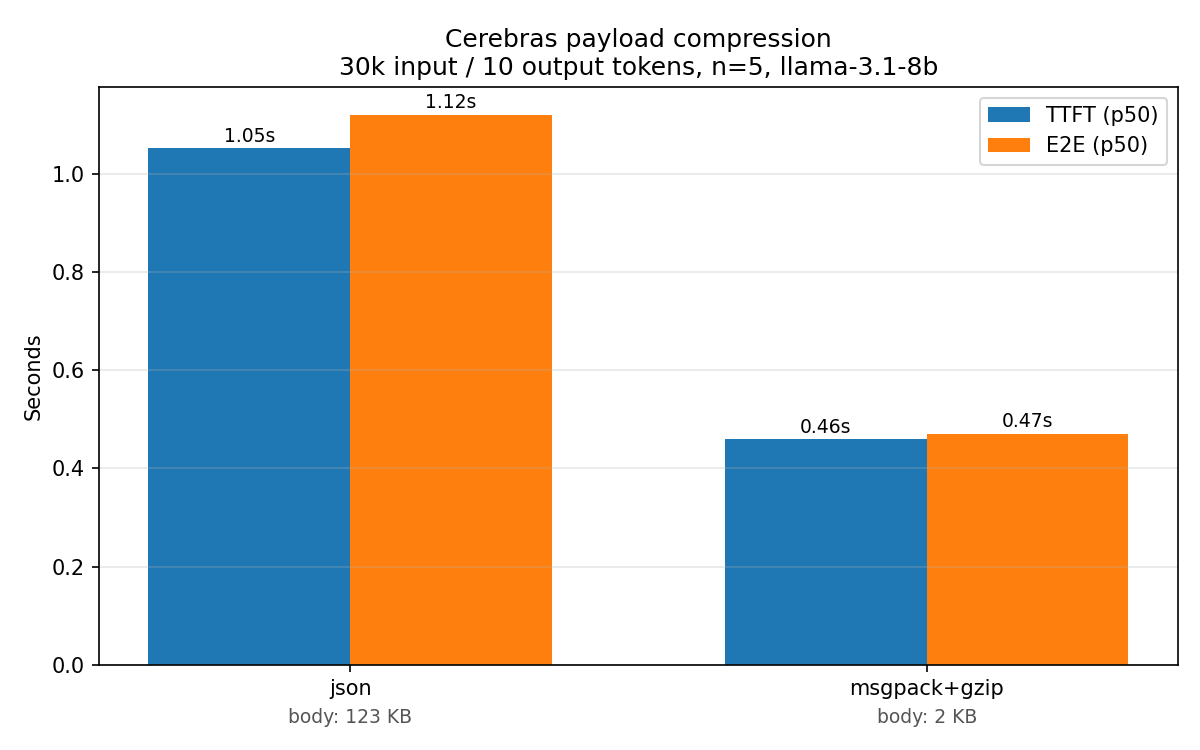
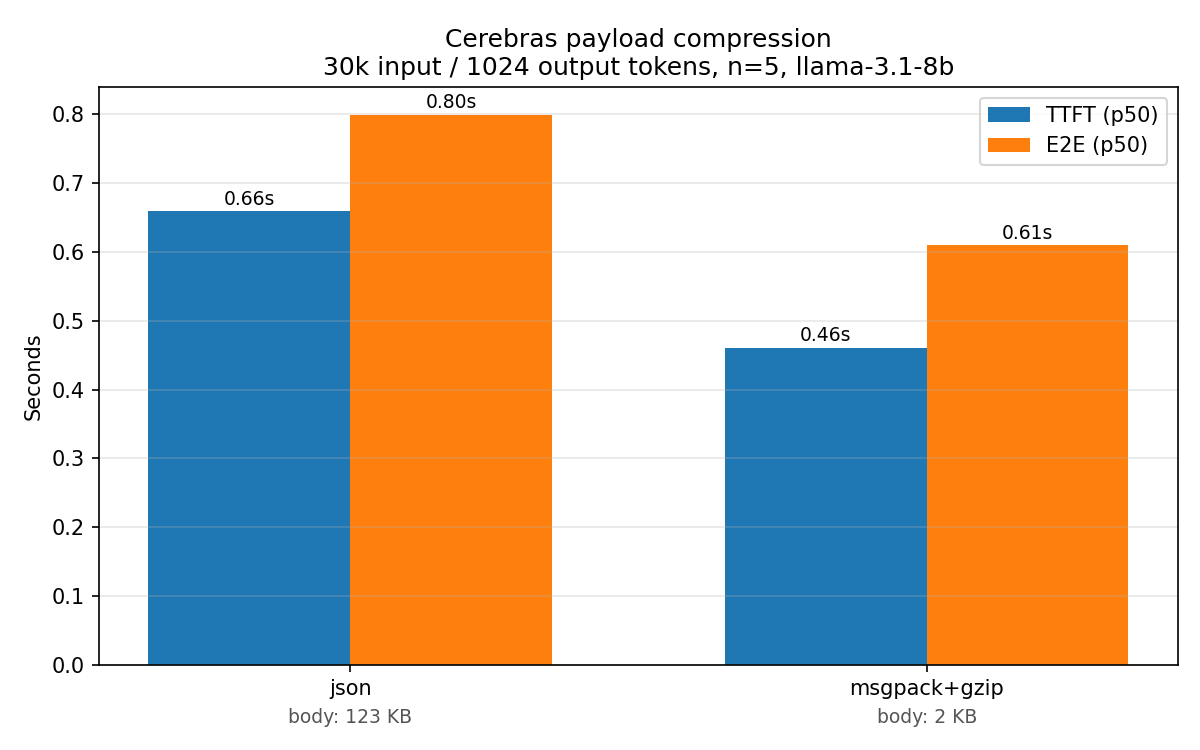
Use gpt-oss-120b in simple example, bump max_tokens to 1024 everywhere
Aligns the minimal example with the README's stated goal (flagship model
for the simple demo) and changes the benchmark to generate a realistic
1024-token response so the E2E metric reflects a full answer rather than
just the first few tokens. Refreshed results.png and table from a new
llama-3.1-8b run at 30k input / 1024 output.

diff --git a/payload-compression/simple_example.py b/payload-compression/simple_example.py
@@ -12,7 +12,7 @@ import httpx
 import msgpack
 
 API_URL = "https://api.cerebras.ai/v1/chat/completions"
-MODEL = "llama-3.1-8b"
+MODEL = "gpt-oss-120b"
 
 api_key = os.environ.get("CEREBRAS_API_KEY")
 if not api_key:
@@ -21,7 +21,7 @@ if not api_key:
 payload = {
     "model": MODEL,
     "messages": [{"role": "user", "content": "Explain payload compression in one sentence."}],
-    "max_tokens": 128,
+    "max_tokens": 1024,
 }
 
 plain_json = json.dumps(payload).encode()

diff --git a/payload-compression/benchmark.py b/payload-compression/benchmark.py
@@ -26,7 +26,7 @@ import msgpack
 API_URL = "https://api.cerebras.ai/v1/chat/completions"
 MODEL = "llama-3.1-8b"
 NUM_RUNS = 5
-OUTPUT_TOKENS = 10
+OUTPUT_TOKENS = 1024
 TARGET_INPUT_TOKENS = 30_000
 CHARS_PER_TOKEN = 4.0  # empirical for this code-block content; tune if your prompt type differs
 MAX_DECOMPRESSED_BYTES = 40 * 1024 * 1024  # 40MB guardrail; server cap is 51MB

diff --git a/payload-compression/README.md b/payload-compression/README.md
@@ -4,9 +4,9 @@ Cerebras Inference accepts compressed request bodies on `/v1/chat/completions` a
 
 This example focuses on the strongest combination — **msgpack (inner) + gzip (outer)** — and shows:
 
-1. **[`simple_example.py`](./simple_example.py)** — the minimal code to send a compressed request.
-2. **[`benchmark.py`](./benchmark.py)** — a benchmark that measures TTFT and E2E across 5 runs × 2 encodings on a ~30k-token coding-review prompt.
-3. **[Results](#3-results)** — the chart and table produced by executing `benchmark.py` (committed here so you can see the numbers without running it).
+1. [simple_example.py](./simple_example.py) — the minimal code to send a compressed request.
+2. [benchmark.py](./benchmark.py) — a benchmark that measures TTFT and E2E across 5 runs × 2 encodings on a ~30k-token coding-review prompt.
+3. [Results](#3-results) — the chart and table produced by executing `benchmark.py` with an example model
 
 The API also supports msgpack alone and gzip alone; the Cerebras [payload-optimization docs](https://inference-docs.cerebras.ai/capabilities/payload-optimization) cover those. msgpack+gzip gives the best reduction, so that's what this example uses.
 
@@ -14,18 +14,19 @@ The API also supports msgpack alone and gzip alone; the Cerebras [payload-optimi
 
 Three things differ from a plain-JSON request:
 
-- **Body** is `gzip.compress(msgpack.packb(payload))`. msgpack must be inside, gzip outside — the order is not swappable.
+- **Body** is `gzip.compress(msgpack.packb(payload))` (msgpack must be inside, gzip outside. Order is not swappable.)
 - **`Content-Type: application/vnd.msgpack`** (tells the server the decompressed body is msgpack).
 - **`Content-Encoding: gzip`** (tells the server to decompress before parsing).
 
+Here's example code using `gpt-oss-120b` model, you can swap the model to any other supported model. 
 ```python
 import gzip, json, os, httpx, msgpack
 
 api_key = os.environ["CEREBRAS_API_KEY"]
 payload = {
-    "model": "llama-3.1-8b",
+    "model": "gpt-oss-120b",
     "messages": [{"role": "user", "content": "Explain payload compression in one sentence."}],
-    "max_tokens": 128,
+    "max_tokens": 1024,
 }
 
 body = gzip.compress(msgpack.packb(payload))
@@ -43,16 +44,14 @@ print(r.json()["choices"][0]["message"]["content"])
 
 On a trivially small payload like this you'll see something like `Sent 210 compressed bytes (vs 195 plain JSON — -7.7% smaller)`: compression can actually *grow* sub-KB payloads. That's expected. The point of the feature is large payloads — see the benchmark.
 
-The server enforces a **51 MB decompressed-body limit**; larger requests return HTTP 413.
-
 ## 2. Benchmark methodology
 
-- **Prompt**: one deterministic ~30k-token user message built by repeating a realistic Python code block and appending a specific review question. Byte-identical across all runs — see the note on KV cache below. (30k chosen to stay well under `llama-3.1-8b`'s 32k context window.)
-- **Response**: `max_tokens=10`, streaming (`stream: true`), so we can measure TTFT directly without letting generation dominate end-to-end time.
+- **Model**: This benchmark uses `llama-3.1-8b`, a simple and small model, for demonstration purposes. You can swap this model to any other supported model.
+- **Prompt**: one deterministic ~30k token user message built by repeating a realistic Python code block and appending a specific review question. Byte-identical across all runs — see the note on KV cache below. (30k chosen to stay well under `llama-3.1-8b`'s 32k context window.)
+- **Response**: `max_tokens=1024`, streaming (`stream: true`), so we can measure both TTFT and an end-to-end latency that reflects a realistic generation length.
 - **Encodings**: `json` (baseline) and `msgpack+gzip`.
 - **Runs**: 1 warmup (discarded) + 5 measured runs per encoding.
 - **Metrics**: TTFT (request sent → first content token received) and E2E (request sent → stream ends). Reported as p50, p90, and average.
-- **Model**: `llama-3.1-8b`.
 - **Rate limits**: the script retries on HTTP 429 (Tokens-Per-Minute limit) honoring the `Retry-After` header — this can extend total runtime.
 
 ### KV cache note
@@ -67,16 +66,16 @@ If you want to measure a cold-cache scenario, vary the prompt across runs (e.g.,
 
 | Encoding | Bytes Sent | TTFT p50 | TTFT p90 | TTFT avg | E2E p50 | E2E p90 | E2E avg |
 |---|---|---|---|---|---|---|---|
-| json | 123.4 KB | 1.05s | 4.14s | 2.01s | 1.12s | 4.14s | 2.05s |
-| msgpack+gzip | 2.0 KB | 0.46s | 1.68s | 0.87s | 0.47s | 1.71s | 0.88s |
+| json | 123.4 KB | 0.66s | 1.61s | 0.97s | 0.80s | 1.68s | 1.09s |
+| msgpack+gzip | 2.0 KB | 0.46s | 0.61s | 0.51s | 0.61s | 0.71s | 0.63s |
 
-On this run (`llama-3.1-8b`, 30k-token input, `max_tokens=10`, 5 measured runs per encoding):
+On this run (`llama-3.1-8b`, 30k-token input, `max_tokens=1024`, 5 measured runs per encoding):
 
 - **Body size**: 123.4 KB → 2.0 KB — **98.4% smaller**.
-- **TTFT p50**: 1.05s → 0.46s — **~56% faster** to the first token (more than 2×).
-- **TTFT p90**: 4.14s → 1.68s — **~59% faster** at the tail.
-- **E2E p50**: 1.12s → 0.47s — **~58% faster** end-to-end.
-- **TTFT avg**: 2.01s → 0.87s — **~57% faster** on average.
+- **TTFT p50**: 0.66s → 0.46s — **~30% faster** to the first token.
+- **TTFT p90**: 1.61s → 0.61s — **~62% faster** at the tail.
+- **TTFT avg**: 0.97s → 0.51s — **~47% faster** on average.
+- **E2E p90**: 1.68s → 0.71s — **~58% faster** end-to-end at the tail.
 
 The compressed encoding is both faster _and_ more stable: the tail latency (p90) is what users actually feel, and this is where compression pays off most.
 
